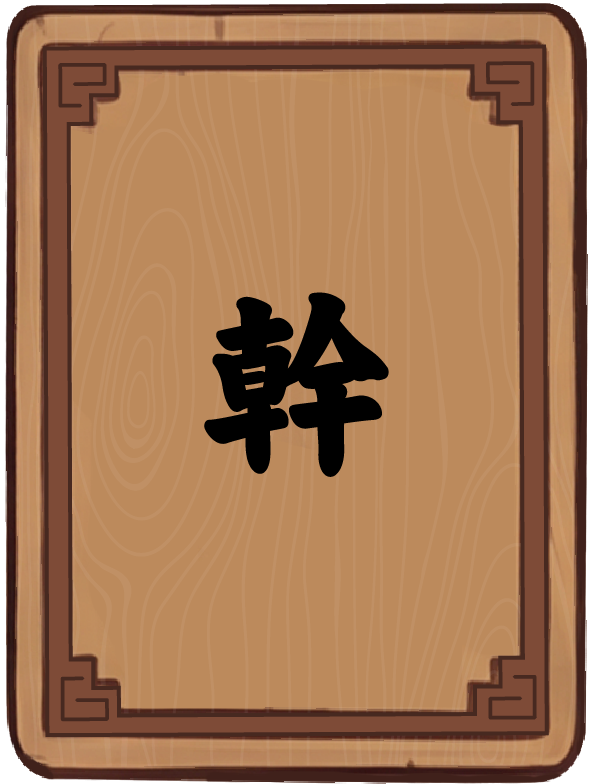
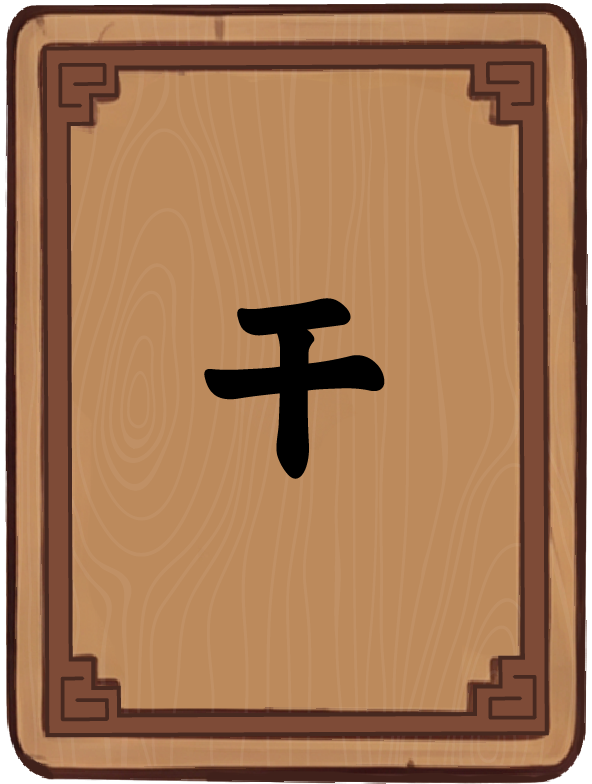
update game 3 and 7

Changed region(s): [[0.3345, 0.3673, 0.6689, 0.6122]]

diff --git a/src/scenes/Game/GameScene_3.js b/src/scenes/Game/GameScene_3.js
@@ -28,6 +28,8 @@ export class GameScene_3 extends BaseGameScene {
         this.load.image('game3_npc_box_tryagain', `${path}game3_npc_box3.png`);
         this.load.image('game3_preview', `${path}game3_success_preview.png`);
 
+        this.load.image('game3_object_description', `${path}game3_object_description.png`);
+
     }
 
     create() {
@@ -65,20 +67,32 @@ export class GameScene_3 extends BaseGameScene {
             { x: centerX + 700, y: centerY + 280 }
         ];
 
-        // Card pairs data (12 pairs = 24 cards)
+        // Card pairs data (12 pairs = 24 cards) - fixed spawn order
         this.cardTypes = [
-            'game3_card1_img', 'game3_card1_text',
-            'game3_card2_img', 'game3_card2_text',
-            'game3_card3_img', 'game3_card3_text',
-            'game3_card4_img', 'game3_card4_text',
-            'game3_card5_img', 'game3_card5_text',
-            'game3_card6_img', 'game3_card6_text',
-            'game3_card7_img', 'game3_card7_text',
-            'game3_card8_img', 'game3_card8_text',
-            'game3_card9_img', 'game3_card9_text',
-            'game3_card10_img', 'game3_card10_text',
-            'game3_card11_img', 'game3_card11_text',
-            'game3_card12_img', 'game3_card12_text'
+            'game3_card1_img',
+            'game3_card2_text',
+            'game3_card6_text',
+            'game3_card5_img',
+            'game3_card11_img',
+            'game3_card2_img',
+            'game3_card11_text',
+            'game3_card8_text',
+            'game3_card3_text',
+            'game3_card7_img',
+            'game3_card9_img',
+            'game3_card5_text',
+            'game3_card9_text',
+            'game3_card8_img',
+            'game3_card4_img',
+            'game3_card12_text',
+            'game3_card6_img',
+            'game3_card4_text',
+            'game3_card3_img',
+            'game3_card10_text',
+            'game3_card12_img',
+            'game3_card7_text',
+            'game3_card1_text',
+            'game3_card10_img'
         ];
 
         this.cards = [];
@@ -96,15 +110,12 @@ export class GameScene_3 extends BaseGameScene {
     }
 
     setupGameObjects() {
-        // Shuffle card types
-        const shuffledTypes = Phaser.Utils.Array.Shuffle([...this.cardTypes]);
-
-        // Shuffle positions
-        const shuffledPositions = Phaser.Utils.Array.Shuffle([...this.spawnCardPositions]);
+        const shuffledTypes = [...this.cardTypes];
+        const shuffledPositions = [...this.spawnCardPositions];
 
         console.log('Creating cards at positions:', shuffledPositions);
 
-        // Create cards at random positions
+        // Create cards at fixed positions in specified order
         shuffledTypes.forEach((cardType, index) => {
             const pos = shuffledPositions[index];
 
@@ -177,8 +188,8 @@ export class GameScene_3 extends BaseGameScene {
         // Optional: Add flip animation
         this.tweens.add({
             targets: card,
-            scaleX: faceUp ? 0.8 : 1,
-            scaleY: faceUp ? 0.8 : 1,
+            scaleX: faceUp ? 0.7 : 1,
+            scaleY: faceUp ? 0.7 : 1,
             duration: 150,
             ease: 'Linear'
         });
@@ -284,7 +295,7 @@ export class GameScene_3 extends BaseGameScene {
         }]);
         objectPanel.setDepth(1000);
         objectPanel.show();
-        objectPanel.setCloseCallBack(() => GameManager.backToMainStreet(this));
+        //objectPanel.setCloseCallBack(() => GameManager.backToMainStreet(this));
     }
 
 }

diff --git a/src/scenes/BootScene.js b/src/scenes/BootScene.js
@@ -142,7 +142,7 @@ export class BootScene extends Phaser.Scene {
 
             this.registry.set('globalSettings', settings);
         }
-        this.scene.start('GameScene_7');
+        this.scene.start('GameScene_3');
     }
 }
 

diff --git a/src/scenes/Game/BaseGameScene.js b/src/scenes/Game/BaseGameScene.js
@@ -410,7 +410,7 @@ export default class BaseGameScene extends Phaser.Scene {
             popupPanel.destroy();
             this.restartGame(); // 重新開始整個遊戲
         }, () => {
-            GameManager.backToMainStreet(this);
+            // GameManager.backToMainStreet(this);
         });
         popupPanel.setDepth(1000);
     }